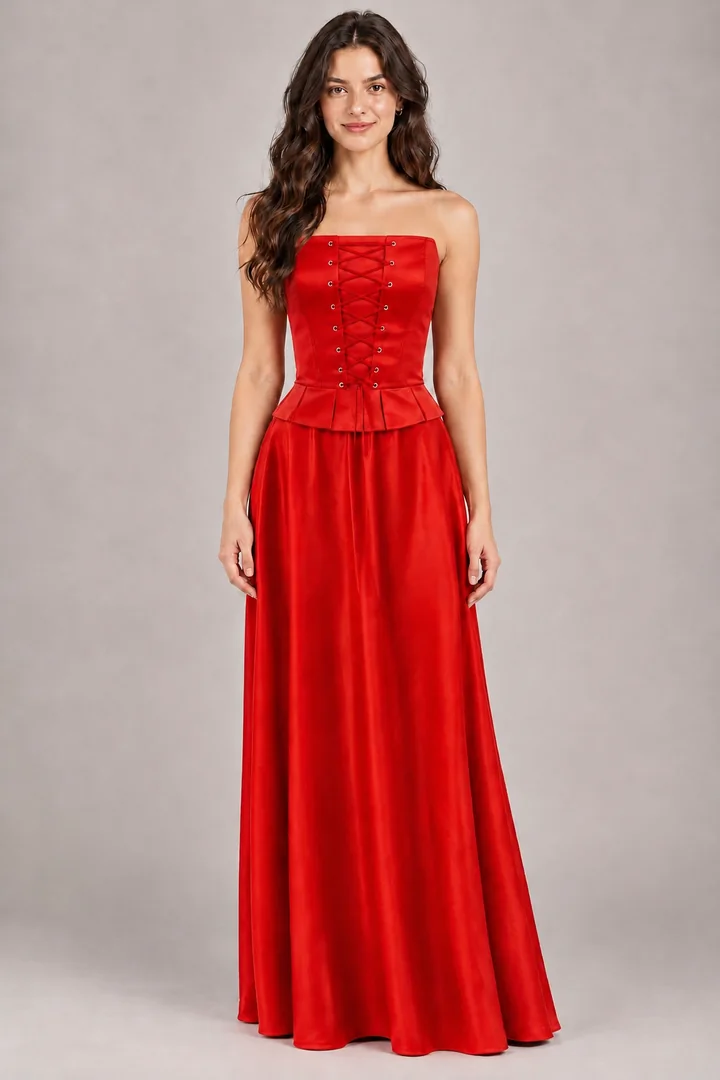
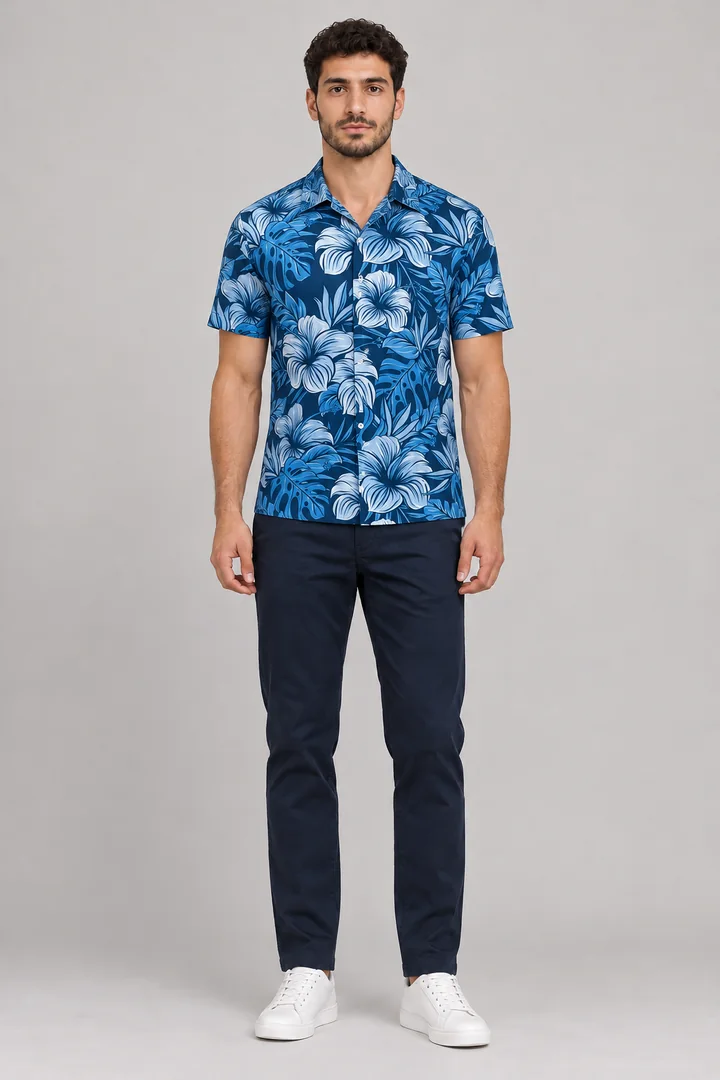
feat: landing page try-on shows a male model with a blue short-sleeve shirt
Replace the female model and red dress with a male model wearing the blue short-sleeve
shirt from the demo store (79 SAR). Chat examples, product card and alt text now match
(masculine phrasing). The result is still labelled as an AI-generated model.

diff --git a/apitokens/templates/apitokens/landing/landing.html b/apitokens/templates/apitokens/landing/landing.html
@@ -73,12 +73,12 @@
       </div>
       <div class="chat chat--float">
         <div class="chat-head"><span class="dia"></span>مساعد المتجر</div>
-        <div class="msg msg--user">أبغى فستان لحفلة زواج وميزانيتي ما تتعدى 400 ريال</div>
-        <div class="msg msg--bot">أكيد! هذا فستان كورسيه أحمر طويل بـ 339 ريال، مناسب للأعراس. تحبين تشوفينه عليك قبل ما تقررين؟</div>
+        <div class="msg msg--user">أبغى قميص صيفي خفيف وميزانيتي ما تتعدى 100 ريال</div>
+        <div class="msg msg--bot">أكيد! هذا قميص هاواي أزرق بأكمام قصيرة بـ 79 ريال، خفيف ومناسب للصيف. تحب تشوفه عليك قبل ما تقرر؟</div>
         <div class="pcard">
-          <span class="pcard-img"><img src="{% static 'apitokens/landing/product-red-dress.webp' %}" alt="" width="162" height="420"></span>
-          <span class="pcard-info"><b>فستان كورسيه أحمر طويل</b><i>339 ر.س</i></span>
-          <span class="pcard-btn">جرّبيه عليك</span>
+          <span class="pcard-img"><img src="{% static 'apitokens/landing/product-blue-shirt.webp' %}" alt="" width="324" height="420"></span>
+          <span class="pcard-info"><b>قميص هاواي أزرق بأكمام قصيرة</b><i>79 ر.س</i></span>
+          <span class="pcard-btn">جرّبه عليك</span>
         </div>
       </div>
     </div>
@@ -150,8 +150,8 @@
       <div class="chats">
         <div class="chat">
           <div class="chat-head"><span class="dia"></span>خليجي</div>
-          <div class="msg msg--user">أبغى فستان لحفلة زواج وميزانيتي ما تتعدى 400 ريال</div>
-          <div class="msg msg--bot">أكيد! هذا فستان كورسيه أحمر طويل بـ 339 ريال، مناسب للأعراس. تحبين تشوفينه عليك قبل ما تقررين؟</div>
+          <div class="msg msg--user">أبغى قميص صيفي خفيف وميزانيتي ما تتعدى 100 ريال</div>
+          <div class="msg msg--bot">أكيد! هذا قميص هاواي أزرق بأكمام قصيرة بـ 79 ريال، خفيف ومناسب للصيف. تحب تشوفه عليك قبل ما تقرر؟</div>
         </div>
         <div class="chat">
           <div class="chat-head"><span class="dia"></span>شامي</div>
@@ -181,7 +181,7 @@
       </div>
       <div class="ba-wrap">
         <div class="ba" data-ba dir="ltr">
-          <img class="ba-img" src="{% static 'apitokens/landing/tryon-after.webp' %}" alt="الموديل بعد تجربة فستان الكورسيه الأحمر" width="720" height="1080" loading="lazy">
+          <img class="ba-img" src="{% static 'apitokens/landing/tryon-after.webp' %}" alt="الموديل بعد تجربة القميص الأزرق" width="720" height="1080" loading="lazy">
           <div class="ba-before"><img class="ba-img" src="{% static 'apitokens/landing/tryon-before.webp' %}" alt="الموديل قبل التجربة" width="720" height="1080" loading="lazy"></div>
           <span class="ba-line" aria-hidden="true"></span>
           <span class="ba-knob" aria-hidden="true"><i></i></span>
@@ -190,8 +190,8 @@
           <input class="ba-range" type="range" min="0" max="100" value="50" aria-label="اسحب للمقارنة بين صورة الزبون قبل التجربة وبعدها">
         </div>
         <div class="ba-product">
-          <img src="{% static 'apitokens/landing/product-red-dress.webp' %}" alt="" width="162" height="420" loading="lazy">
-          <span><b>فستان كورسيه أحمر طويل</b><i>339 ر.س</i></span>
+          <img src="{% static 'apitokens/landing/product-blue-shirt.webp' %}" alt="" width="324" height="420" loading="lazy">
+          <span><b>قميص هاواي أزرق بأكمام قصيرة</b><i>79 ر.س</i></span>
         </div>
         <p class="caption caption--light">نتيجة حقيقية من PEPLO على موديل افتراضي (صورة مولَّدة بالذكاء الاصطناعي).</p>
       </div>

diff --git a/apitokens/test_landing.py b/apitokens/test_landing.py
@@ -38,14 +38,14 @@ class LandingPageTests(TestCase):
     def test_tryon_comparison_and_assets(self):
         res = self.client.get(reverse("landing"))
         self.assertContains(res, "data-ba")
-        for name in ("tryon-before.webp", "tryon-after.webp", "product-red-dress.webp", "landing.js", "landing.css"):
+        for name in ("tryon-before.webp", "tryon-after.webp", "product-blue-shirt.webp", "landing.js", "landing.css"):
             self.assertContains(res, name)
 
     def test_static_assets_exist(self):
         from pathlib import Path
 
         base = Path(__file__).parent / "static" / "apitokens" / "landing"
-        for name in ("tryon-before.webp", "tryon-after.webp", "product-red-dress.webp", "peplo-mark-cream.webp",
+        for name in ("tryon-before.webp", "tryon-after.webp", "product-blue-shirt.webp", "peplo-mark-cream.webp",
                      "favicon.png", "apple-touch-icon.png", "og.png", "landing.js", "landing.css"):
             self.assertTrue((base / name).is_file(), name)
 
